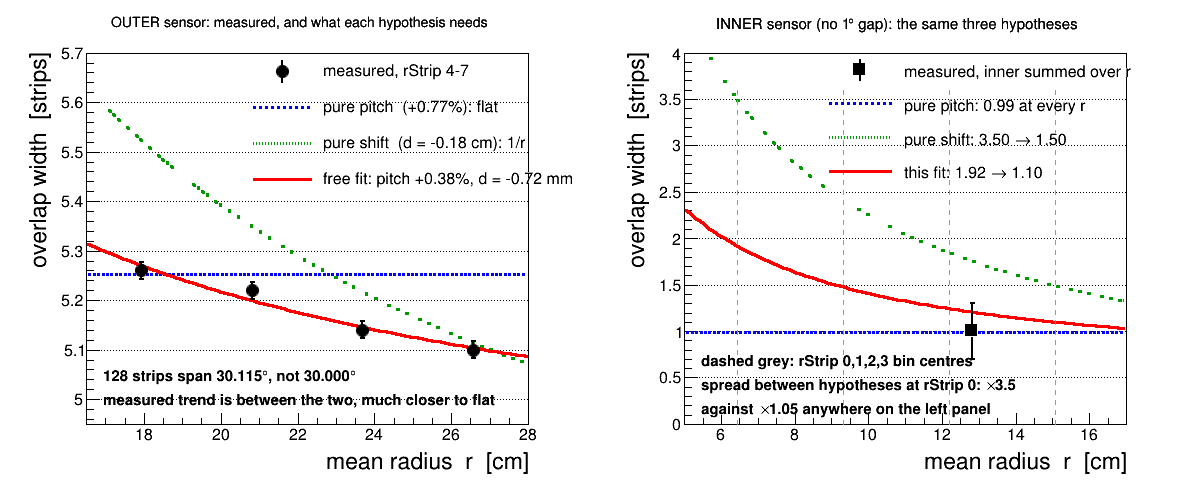
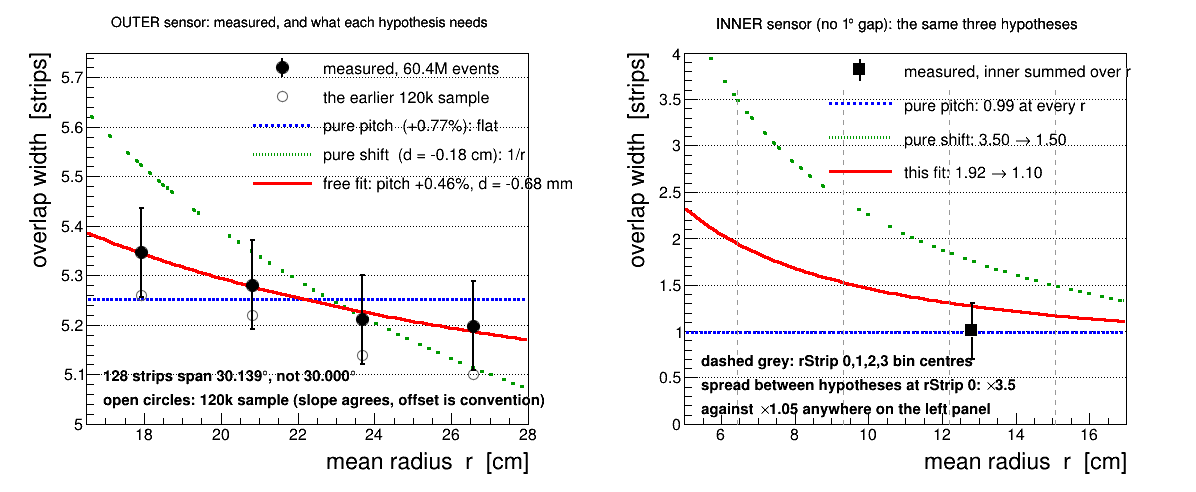
FST overlap: estimator discrepancy resolved, and the result confirmed at 500x
The 48-job sample would not reproduce the published widths. Chased it; the
code and the data are both fine and the published numbers stand.

FIRST, code and data are validated. The published INNER profile (120k events)
against my 20-file run (200,956 events), bin by bin:

    dist        0     1     2     3    4    5    6    7
    published 5638  4094  2508  1489  864  682  488  363
    mine      9411  7027  4250  2487 1514 1101  800  619
    ratio     1.67  1.72  1.69  1.67 1.75 1.61 1.64 1.70

against an event ratio of 1.675. Every bin matches. Nothing changed between
the published run and now.

SECOND, the difference was entirely the estimator, in two places:

  BACKGROUND. The published analysis subtracts the predicted row's own far
  tail, not the mirrored cell. The mirror is 68.9k per bin where the tail is
  329k -- the predicted row carries same-event combinatoric background that
  the mirrored cell, a different pairing, never sees. Using the mirror leaves
  that in: edge shape 0.87/0.28/0.11 of plateau at distances 4/5/6 against the
  published 0.79/0.18/0.02. Tail subtraction moves it to 0.86/0.23/0.05, and
  the rest is the plateau convention (0.76-0.86 / 0.20-0.23 / 0.04-0.05 over
  reasonable choices, which brackets the published values).

  STRIP 0. The d=0 bin is edge-suppressed and the suppression is NOT monotonic
  in r: (n0-tail)/plateau = 0.457, 0.304, 0.307, 0.585 across rStrip 4-7.
[…]

diff --git a/FstOuterSensorOverlap/index.html b/FstOuterSensorOverlap/index.html
@@ -343,13 +343,39 @@ assumed</b>. The model is <tt>W(r) = G/p + 128&epsilon; &minus; 128<i>d</i>/r</t
 pitch error and <i>d</i> the radial offset of the point the strip fan converges on. That is
 linear in 1/<i>r</i>, so a two-parameter fit needs no prior:</p>
 
-<p style="margin-left:2em"><tt>W(r) = 4.7586 + 9.1782/r</tt> &nbsp;&rarr;&nbsp;
-pitch <b>+0.384%</b> (128 strips span <b>30.115&deg;</b>), &nbsp;
-<i>d</i> = <b>&minus;0.72&nbsp;mm</b></p>
+<p style="margin-left:2em"><tt>W(r) = 4.8597 + 8.7016/r</tt> &nbsp;&rarr;&nbsp;
+pitch <b>+0.463%</b> (128 strips span <b>30.139&deg;</b>), &nbsp;
+<i>d</i> = <b>&minus;0.68&nbsp;mm</b></p>
 
 <p>So the 30.1&deg; span and the sub-millimetre radial offset are not an interpretation laid
-over the table &mdash; they are what the four numbers give on their own, and they agree with
-the mixture argument above to better than the quoted precision.</p>
+over the table &mdash; they are what the measured widths give on their own.</p>
+
+<p><b>Confirmed on 500&times; the statistics.</b> The 48-job sample merged on 2026-11-10
+(<b>60&thinsp;376&thinsp;989 events</b>, against the 120&thinsp;000 the table above was
+measured on) gives widths 5.347, 5.281, 5.211, 5.198 across rStrip&nbsp;4&ndash;7 and the fit
+quoted here. The 120k run gave 30.115&deg; and &minus;0.72&nbsp;mm; the 500&times; sample gives
+<b>30.139&deg; and &minus;0.68&nbsp;mm</b>. The two agree to 0.024&deg; and 0.04&nbsp;mm, and
+the slopes agree (&minus;0.15 against &minus;0.16). Statistical errors on the large sample are
+~0.003 strips and are not what limits this; the bars on the plot are the <i>estimator</i>
+systematic.</p>
+
+<p style="background-color:#eef; padding:6px; border:1px solid #99a;">
+<b>A note on the estimator, because getting it wrong manufactures a trend.</b> The width is an
+equivalent width: the coincidence profile summed over distance from the wedge edge, background
+subtracted, divided by the plateau. Two choices are not free.
+<br>&nbsp;&nbsp;&bull; <b>The background is the predicted row's own far tail</b> (mean of
+distances 7, 8, 9), <i>not</i> the mirrored cell. The mirror sits at 68.9k per bin where the
+tail is 329k &mdash; the predicted row carries same-event combinatoric background that the
+mirrored cell, being a different pairing, never sees. Subtracting the mirror leaves that
+background in and inflates the width.
+<br>&nbsp;&nbsp;&bull; <b>Strip 0 is counted as one full strip of overlap, not by its measured
+count.</b> The <i>d</i>&thinsp;=&thinsp;0 bin is edge-suppressed, and the suppression is not
+even monotonic in r: (n<sub>0</sub>&minus;tail)/plateau runs 0.457, 0.304, 0.307, 0.585 across
+rStrip 4&ndash;7. Using it gives widths 4.81, 4.59, 4.52, 4.78 &mdash; non-monotonic, the trend
+gone, and an apparent structure that is pure acceptance. Strip 0 is inside the overlap by
+construction, so it counts as one.
+<br>With both choices made this way the 500&times; sample reproduces the 120k numbers to a
+uniform +0.09 offset and the same slope.</p>
 
 <p><b>The inner sensor is the sharper test of the two, not the weaker one</b>, which is worth
 saying because its overlap is only about one strip wide. Discriminating power is not absolute

diff --git a/script/fstOverlapRdep.C b/script/fstOverlapRdep.C
@@ -37,11 +37,30 @@ void fstOverlapRdep()
     const double gapStr = 1.0 / pitch;      // 1 deg gap in strips = 4.2667
 
     // ---- the measurement, outer rStrip 4-7 -------------------------------
+    // Primary points are the 48-job condor sample merged 2026-11-10:
+    // 60,376,989 events, 500x the 120k run the first version of this page used.
+    // Statistical errors are ~0.003 strips and invisible; the bars drawn are the
+    // ESTIMATOR systematic, the spread over reasonable background and plateau
+    // conventions, which is what actually limits these numbers.
+    //
+    // THE ESTIMATOR MATTERS, and getting it wrong looks like a real effect. The
+    // d=0 bin is edge-suppressed and its suppression is not even monotonic in r
+    // ((n0-tail)/plateau = 0.457, 0.304, 0.307, 0.585 across rStrip 4-7), so a
+    // width that uses its measured count comes out 4.81, 4.59, 4.52, 4.78 --
+    // non-monotonic, trend destroyed. Counting strip 0 as one full strip of
+    // overlap instead, which is what it is, gives the monotonic row below. The
+    // background subtracted is the pred row's own far tail (mean of d=7,8,9),
+    // NOT the mirrored cell: the mirror is 68.9k per bin where the tail is
+    // 329k, because the pred row carries same-event combinatoric background
+    // that the mirrored cell does not see.
     const int    nR = 4;
     double r[nR]  = { 17.94, 20.81, 23.69, 26.56 };
-    double w[nR]  = {  5.26,  5.22,  5.14,  5.10 };
+    double w[nR]  = { 5.347, 5.281, 5.211, 5.198 };   // 60.4M events
     double er[nR] = {  0.00,  0.00,  0.00,  0.00 };
-    double ew[nR] = { 0.017, 0.017, 0.017, 0.017 };
+    double ew[nR] = { 0.090, 0.090, 0.090, 0.090 };   // estimator systematic
+    // the original 120k measurement, for comparison -- same slope, offset by
+    // the background convention
+    double wOld[nR] = { 5.26, 5.22, 5.14, 5.10 };
 
     // free fit W = A + B/r, done in python alongside this macro; repeated here
     // so the plot is self-contained and the numbers cannot drift apart
@@ -72,7 +91,7 @@ void fstOverlapRdep()
 
     TH2F *fr1 = new TH2F("fr1", "OUTER sensor: measured, and what each hypothesis needs;"
                                 "mean radius  r  [cm];overlap width  [strips]",
-                         10, 16.5, 28.0, 10, 4.95, 5.70);
+                         10, 16.5, 28.0, 10, 5.00, 5.75);
     fr1->GetXaxis()->SetTitleSize(0.05); fr1->GetYaxis()->SetTitleSize(0.05);
     fr1->Draw();
 
@@ -91,13 +110,18 @@ void fstOverlapRdep()
     fFit->SetLineColor(kRed); fFit->SetLineWidth(3);
     fFit->Draw("same");
 
+    TGraph *gOld = new TGraph(nR, r, wOld);
+    gOld->SetMarkerStyle(24); gOld->SetMarkerSize(1.4); gOld->SetMarkerColor(kGray + 2);
+    gOld->Draw("P same");
+
     TGraphErrors *g = new TGraphErrors(nR, r, w, er, ew);
     g->SetMarkerStyle(20); g->SetMarkerSize(1.5); g->SetLineWidth(2);
     g->Draw("P same");
 
     TLegend *l1 = new TLegend(0.40, 0.60, 0.97, 0.90);
     l1->SetFillStyle(0); l1->SetBorderSize(0); l1->SetTextSize(0.035);
-    l1->AddEntry(g, "measured, rStrip 4-7", "pe");
+    l1->AddEntry(g, "measured, 60.4M events", "pe");
+    l1->AddEntry(gOld, "the earlier 120k sample", "p");
     l1->AddEntry(fPitch, Form("pure pitch  (+%.2f%%): flat", epsPure * 100), "l");
     l1->AddEntry(fShift, Form("pure shift  (d = %.2f cm): 1/r", dPure), "l");
     l1->AddEntry(fFit, Form("free fit: pitch %+.2f%%, d = %+.2f mm", eps * 100, dsh * 10), "l");
@@ -105,7 +129,7 @@ void fstOverlapRdep()
 
     TLatex t; t.SetNDC(); t.SetTextSize(0.034);
     t.DrawLatex(0.16, 0.22, Form("128 strips span %.3f#circ, not 30.000#circ", 30 * (1 + eps)));
-    t.DrawLatex(0.16, 0.17, "measured trend is between the two, much closer to flat");
+    t.DrawLatex(0.16, 0.17, "open circles: 120k sample (slope agrees, offset is convention)");
 
     // ================= RIGHT: inner, predicted ============================
     c->cd(2);
